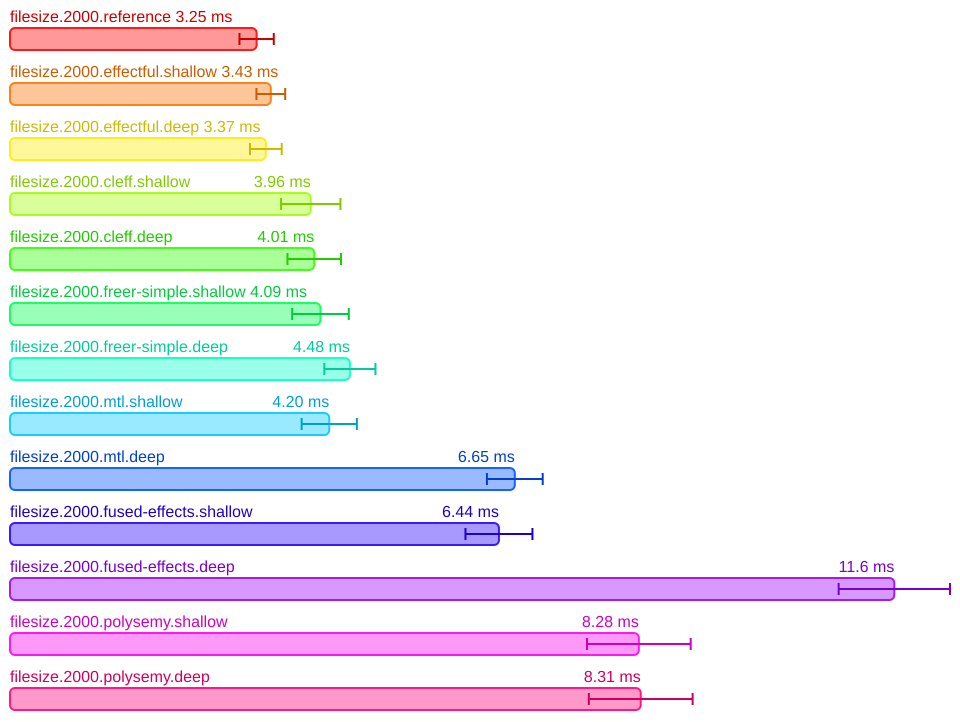
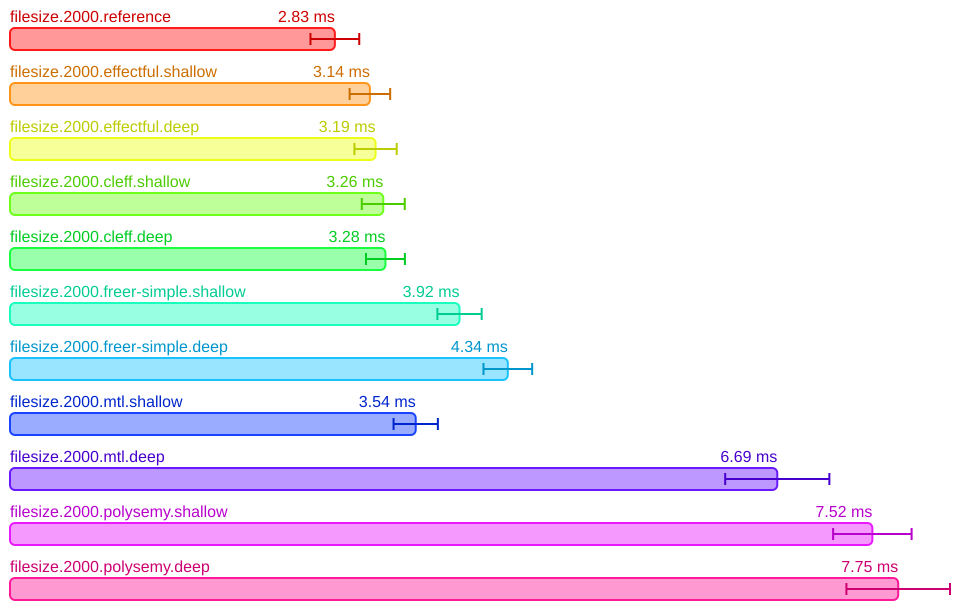
Update benchmarks

diff --git a/benchmarks/README.md b/benchmarks/README.md
@@ -29,7 +29,7 @@ as that would essentially mean performing whole program specialization.
 
 ## Results
 
-The code was compiled with GHC 9.0.2 and run on a Ryzen 9 5950x.
+The code was compiled with GHC 9.2.3 and run on a Ryzen 9 5950x.
 
 ### Countdown
 
@@ -39,13 +39,16 @@ Analysis:
 
 1. `effectful` takes the lead. Its static dispatch is on par with the reference
    implementation that uses the `ST` monad, so it offers no additional
-   overhead. Its dynamic dispatch is also the fastest.
+   overhead. Its dynamic dispatch is also very fast.
 
-2. `cleff` uses very similar implementation techniques as `effectful` and is on
-   par with it for the shallow version, but gets slower for the deep one. This
-   is because it uses `IntMap` for the effect dispatch underneath, so it's not
-   quite constant size in terms of the effect stack. For comparison, `effectful`
-   uses arrays.
+2. `cleff` uses similar implementation techniques as `effectful` (the only major
+   difference is that its internal environment that stores effects is immutable),
+   so they trade blows:
+   - Its thread-local `State` is only slightly slower than `effectful`.
+   - Its `State` implemented via `IORef` is the fastest, but it's worth noting
+   that it's neither properly thread-local nor shared as the underlying `IORef`
+   is shared, but can't be safely updated with `get` and `put` from multiple
+   threads.
 
 3. `freer-simple` does surprisingly well for a solution that's based on free
    monads.
